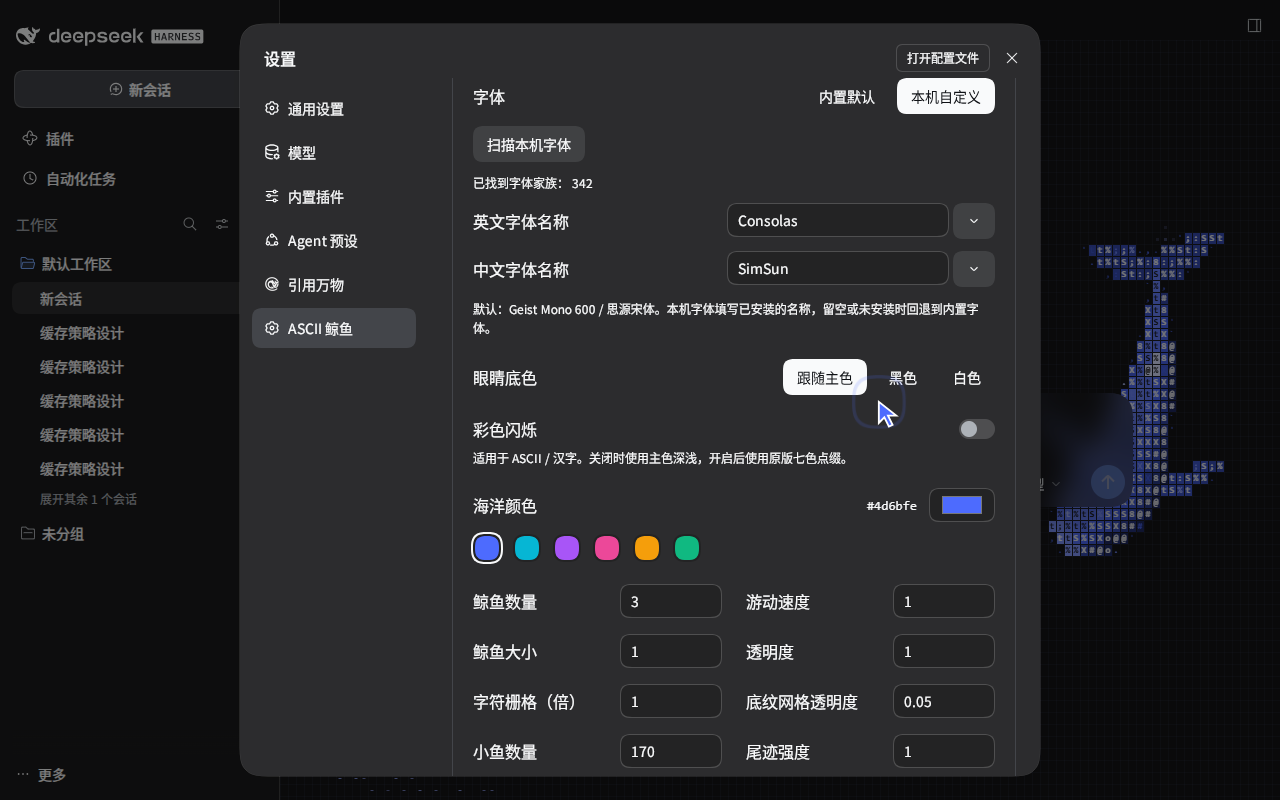
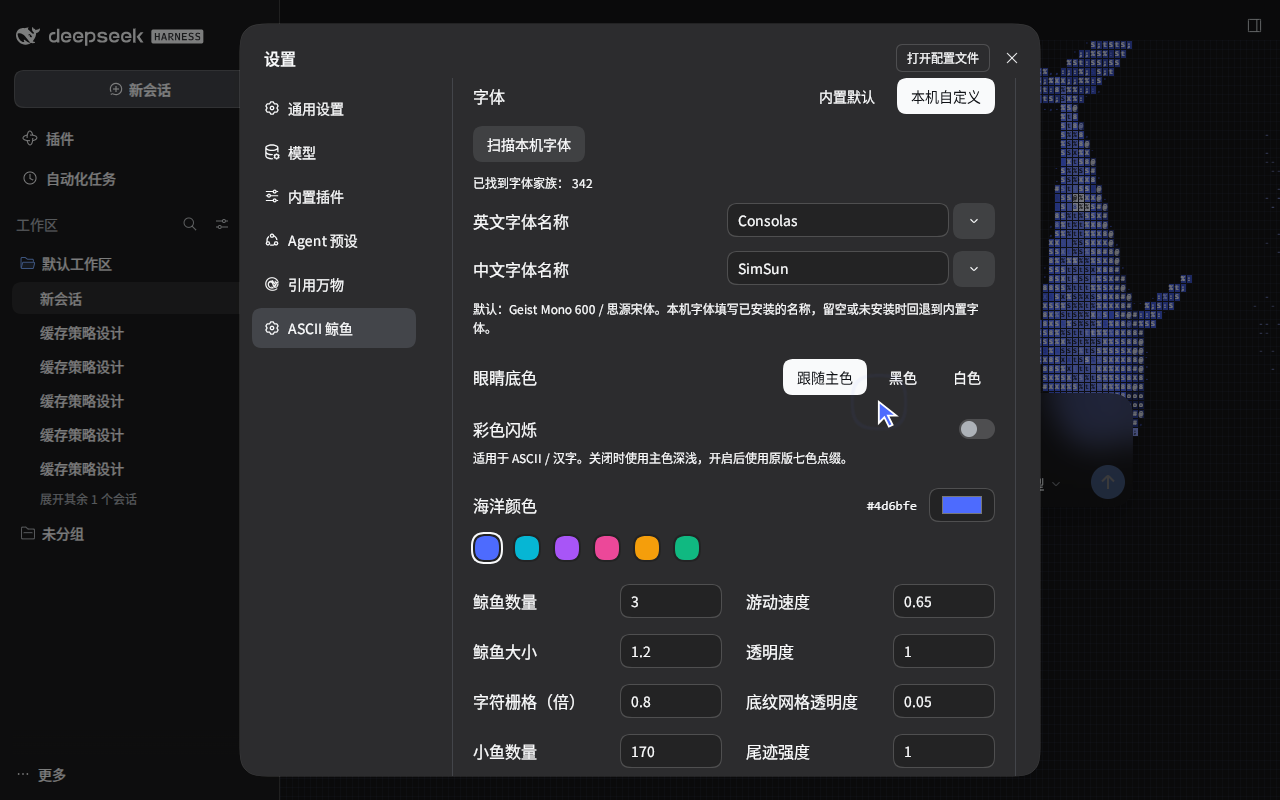
Calibrate character grain and refresh defaults and demos for 0.1.4

Changed region(s): [[0.8125, 0.0312, 0.9688, 0.7188]]

diff --git a/vendor/ascii-kanji-sharks/painter.js b/vendor/ascii-kanji-sharks/painter.js
@@ -7,6 +7,7 @@
  * the part they sit on (目 eye, 鰭 fins, 尾 tail). Partly covered
  * cells become a single brush stroke following the outline (一 丨 ノ 丶).
  */
+import { cellSize } from "../ascii-sharks/cells.ts";
 import { EAT, GlyphAtlas, InkRamp, PART, SFX, SPARK, STROKE, WAKE } from "./glyphs.js";
 import { SHARK_NODES as SPINE } from "../ascii-sharks/world.ts";
 import { humpback, orca, orcaPatch, orcaFlipper, humpbackFlipper, whaleFlukes } from "../ascii-sharks/whales.ts";
@@ -62,7 +63,7 @@ export class Painter {
     this.shape = humpback;
     this.gridScale = gridScale;
     // shortcut: keep cells at least 4 px for legibility and raster cost; revisit for finer grids.
-    this.cell = Math.max(4, 18 * gridScale);
+    this.cell = cellSize(0, gridScale, true)[0];
     this.wake = 1;
     this.canvas = canvas;
     this.ctx = canvas.getContext("2d", { alpha: true });
@@ -112,7 +113,7 @@ export class Painter {
   }
 
   resize(width, height, dpr) {
-    const cell = Math.max(4, 18 * this.gridScale);
+    const cell = cellSize(width, this.gridScale, true)[0];
     this.width = width;
     this.height = height;
     this.cell = cell;

diff --git a/vendor/ascii-sharks/renderer.ts b/vendor/ascii-sharks/renderer.ts
@@ -6,6 +6,7 @@
  *   4. sharks rasterised cell-by-cell with supersampled edges: grey blocks
  *      shaded by the light, dense glyphs, and shimmering accent colours
  */
+import { cellSize } from "./cells";
 import { clamp, hash3, smoothstep } from "./math";
 import { SHARK_NODES, type Shark, type SharkKind, type World } from "./world";
 
@@ -373,10 +374,7 @@ export class AsciiRenderer {
     this.width = width;
     this.height = height;
     this.dpr = dpr;
-    this.cw = Math.max(1, Math.round(clamp(Math.round(width / 124), 8, 13) * this.gridScale));
-    // Full-width Hanzi need room for their strokes rather than squeezed ASCII columns.
-    if (this.glyphMode === 'hanzi') this.cw = Math.round(this.cw * 1.75);
-    this.ch = Math.round(this.cw * (this.glyphMode === 'hanzi' ? 1.12 : 1.45));
+    [this.cw, this.ch] = cellSize(width, this.gridScale, this.glyphMode === 'hanzi');
     this.cols = Math.ceil(width / this.cw);
     this.rows = Math.ceil(height / this.ch);
 

diff --git a/vendor/ascii-sharks/cells.ts b/vendor/ascii-sharks/cells.ts
@@ -1,0 +1,7 @@
+/** Equal cell area keeps grain density similar while full-width glyphs stay square. */
+export function cellSize(width: number, scale: number, square: boolean) {
+  const cw = Math.max(1, Math.round(Math.min(13, Math.max(8, Math.round(width / 124))) * scale));
+  const ch = Math.round(cw * 1.45);
+  const side = Math.max(4, Math.round(Math.sqrt(cw * ch)));
+  return square ? [side, side] : [cw, ch];
+}

diff --git a/README.md b/README.md
@@ -34,11 +34,11 @@ dsh plugin --profile web add dsh-ascii-whales
 
 ## 调一调你的海
 
-新增 **字符风格 → Kanji**：改编自 MIT 许可的 [ascii-kanji-sharks](https://github.com/michikusa404/ascii-kanji-sharks)，使用鲸鱼形态，使用 stackedlol/ascii-sharks 的游动与鱼群模拟，保留 Kanji 上游按笔画密度生成的明暗与捕食文字效果。沿用数量、大小、速度、颜色、网格、尾迹和字体设置；字符栅格最低为 4 px（约 0.22 倍，低于此值不再缩小）。Kanji（日文汉字）使用“中文字体名称”；英文字体设置仅作用于 ASCII。字体离线内置，原有 ASCII／汉字鲸鱼仍可选。
+新增 **字符风格 → Kanji**：改编自 MIT 许可的 [ascii-kanji-sharks](https://github.com/michikusa404/ascii-kanji-sharks)，使用鲸鱼形态，使用 stackedlol/ascii-sharks 的游动与鱼群模拟，保留 Kanji 上游按笔画密度生成的明暗与捕食文字效果。沿用数量、大小、速度、颜色、网格、尾迹和字体设置；字符栅格最低为 4 px（达到下限后不再缩小）。Kanji（日文汉字）使用“中文字体名称”；英文字体设置仅作用于 ASCII。字体离线内置，原有 ASCII／汉字鲸鱼仍可选。
 
 使用 DSH 官方的设置页、按钮、输入框与开关。颜色区提供可视化色块及系统选色器，选色后即时生效。
 
-也可以让汉字入海：**设置 → ASCII 鲸鱼 → 字符风格 → 汉字**。吻部落“吻”，眼睛落“目”，背部落“背”，胸鳍与背鳍落“鳍”，尾鳍落“尾”；其余鲸身由水、海、潮、鲸等字铺开，小鱼化作鱼字旁的游字。字随身体弯曲转向，汉字栅格更宽，也能用“字符栅格”继续调节。
+也可以让汉字入海：**设置 → ASCII 鲸鱼 → 字符风格 → 汉字**。吻部落“吻”，眼睛落“目”，背部落“背”，胸鳍与背鳍落“鳍”，尾鳍落“尾”；其余鲸身由水、海、潮、鲸等字铺开，小鱼化作鱼字旁的游字。字随身体弯曲转向。三种样式按近似相同的字符格面积校准颗粒感：ASCII 保留窄格，汉字与 Kanji 使用方格，并随画布宽度一起调整；仍可用“字符栅格”调节。
 
 英文默认内置 **Geist Mono 600**，与原项目演示一致；汉字默认内置 **思源宋体**。两套字体用于动画，随插件离线加载。切换“字体 → 本机自定义”，可分别填写已安装的中英文字体名称，例如 `Consolas`、`方正屏显雅宋简体`。
 
@@ -62,10 +62,10 @@ dsh plugin --profile web add dsh-ascii-whales
 | 彩色闪烁 | 关 | ASCII / 汉字：关闭使用主色深浅，开启恢复原版七色字符点缀；不改变身体主色。Kanji 使用自身闪光效果，此开关不适用 |
 | 海洋颜色 | DeepSeek 蓝 | 可视化选色器；同步鱼群、尾迹配色 |
 | 鲸鱼数量 | 3 | 1–20 |
-| 鲸鱼大小 | 1 倍 | 0.1–10 倍，保留个体大小差异 |
-| 游动速度 | 1 倍 | 0.1–10 倍 |
+| 鲸鱼大小 | 1.2 倍 | 0.1–10 倍，保留个体大小差异 |
+| 游动速度 | 0.65 倍 | 0.1–10 倍 |
 | 动画透明度 | 1 | 0–1；1 为完全不透明 |
-| 字符栅格 | 1 倍 | 0.1–10 倍；越大越有颗粒感 |
+| 字符栅格 | 0.8 倍 | 0.1–10 倍；越大越有颗粒感 |
 | 底纹网格透明度 | 0.05 | 0–1；0 隐藏底纹 |
 | 小鱼数量 | 170 | 0–1000；0 隐藏小鱼 |
 | 尾迹强度 | 1 | 0–10；0 隐藏扩散尾迹 |

diff --git a/README.en.md b/README.en.md
@@ -52,10 +52,10 @@ Humpbacks retain long flippers and broad flukes. Orcas have a broader rounded he
 | Colorful shimmer | Off | ASCII / Hanzi: selected-color shades by default; enable the original seven-color glyph accents. Body color is unchanged. Not applicable to Kanji |
 | Whale color | `#4d6bfe` | Visual swatches and system color picker; fish and wakes follow |
 | Whales | 3 | 1–20 |
-| Size | 1× | 0.1–10× |
-| Speed | 1× | 0.1–10× |
+| Size | 1.2× | 0.1–10× |
+| Speed | 0.65× | 0.1–10× |
 | Scene opacity | 1 | 0–1; 1 is fully opaque |
-| Cell size | 1× | 0.1–10× |
+| Cell size | 0.8× | 0.1–10× |
 | Background grid opacity | 0.05 | 0–1 |
 | Small fish | 170 | 0–1000 |
 | Wake intensity | 1 | 0–10 |
@@ -91,8 +91,10 @@ Animation and fonts are bundled for offline loading. See [development and record
 
 ## Kanji
 
-Choose **Character style → Kanji** for the MIT-licensed [ascii-kanji-sharks](https://github.com/michikusa404/ascii-kanji-sharks) simulation, adapted to whales: schools, ink-measured shading and feeding text effects. Existing population, size, speed, color, grid, wake and font controls apply. Cells have a 4 px minimum (about 0.22×; lower settings use the same cell size). Kanji uses the Chinese font field; the English font field applies only to ASCII. Fonts are bundled for offline use; both whale styles remain available.
+Choose **Character style → Kanji** for the MIT-licensed [ascii-kanji-sharks](https://github.com/michikusa404/ascii-kanji-sharks) simulation, adapted to whales: schools, ink-measured shading and feeding text effects. Existing population, size, speed, color, grid, wake and font controls apply. Cells have a 4 px minimum (lower settings stop shrinking at this limit). Kanji uses the Chinese font field; the English font field applies only to ASCII. Fonts are bundled for offline use; both whale styles remain available.
 
 All three styles support visibility, count, size, speed, opacity, cell size, grid opacity, small fish count, wake intensity, color, fonts and the glass toggle/blur/opacity. Color affects bodies, fish and wakes; eye backgrounds follow body shading by default, with optional black or white. Kanji glints and sound effects retain theme accents. The first three whales use relative sizes of 100%, 70% and 84%.
 
 Kanji shares the stackedlol/ascii-sharks simulation, pursuit, turning and body wave with ASCII / Hanzi, retaining the whale silhouette with Kanji shading and text effects.
+
+Character cells use comparable areas across styles: ASCII retains narrow cells, while Hanzi and Kanji share square cells that respond to canvas width. The same multiplier gives similar grain density; full-width cells retain a 4 px minimum.

diff --git a/docs/development.md b/docs/development.md
@@ -28,7 +28,7 @@ node scripts/browser-check.mjs --record
 
 Requires Edge, Playwright, ffmpeg and ffprobe. The instance file contains `{ "url": "..." }`. Keep token-bearing instance files and logs local. Never use the everyday Desktop profile for recording or automated UI experiments.
 
-Recordings use a 1280×800 viewport and export 960×600, 15 fps looping GIFs with pointer/click cues. The nine scenes cover ASCII, Hanzi and Kanji in light/dark themes, settings, the local font picker and Humpback → Orca switching in ASCII / Kanji. Hanzi scenes use a 0.8× character grid; both settings and font-picker demos use ASCII mode. These are recording presets, not changes to plugin defaults. The recording context grants local-font access to its isolated browser context and selects installed Consolas/SimSun fonts. Inspect both themes and settings captures after every visual change. `docs/media/manifest.json` records segment timing and character modes. User and agent data are not suitable public fixtures.
+Recordings use a 1280×800 viewport and export 960×600, 15 fps looping GIFs with pointer/click cues. The nine scenes cover ASCII, Hanzi and Kanji in light/dark themes, settings, the local font picker and Humpback → Orca switching in ASCII / Kanji. All nine scenes use the current defaults: swim speed 0.65×, whale size 1.2× and character grid 0.8×. Settings and font-picker demos use ASCII mode; other controls change only to demonstrate their features. Recording assertions check the default speed and sizes and restore defaults at the end. The recording context grants local-font access to its isolated browser context and selects installed Consolas/SimSun fonts. Inspect both themes and settings captures after every visual change. `docs/media/manifest.json` records segment timing and character modes. User and agent data are not suitable public fixtures.
 
 ## Automated releases
 

diff --git a/docs/releases/0.1.4.md b/docs/releases/0.1.4.md
@@ -1,0 +1,25 @@
+三种字符样式的颗粒大小更接近，默认游动更舒缓。
+
+- 校准 ASCII、汉字和 Kanji 的基准栅格尺寸，减少切换样式时的视觉粗细变化。
+- 默认游动速度为 **0.65**、鲸鱼大小为 **1.2**、字符栅格为 **0.8**。
+- 重新录制全部 9 个 GIF，包括三种样式的浅／深色、设置、字体和座头鲸／虎鲸切换。
+- 保留已有偏好；点击“恢复默认”即可应用新参数。
+
+More consistent character grain across styles, with a calmer default swimming speed.
+
+- Calibrated baseline cell sizes across ASCII, Hanzi and Kanji to reduce abrupt changes in visual grain.
+- Default swimming speed is **0.65**, whale size **1.2**, and character grid scale **0.8**.
+- Re-recorded all nine GIFs, covering both themes, settings, fonts and Humpback / Orca switching.
+- Existing preferences are preserved; choose **Restore defaults** to apply the new values.
+
+验证 / Validation: typecheck, 9 automated tests and build pass. Isolated Edge / DSH Web recording assertions and default-reset checks pass with zero page errors. Desktop acceptance and other browsers were not run.
+
+安装 / Install:
+
+```sh
+dsh plugin --profile web add dsh-ascii-whales@0.1.4
+```
+
+Desktop 请通过客户端插件管理更新。For Desktop, update through the client plugin manager.
+
+感谢 / Thanks to [stackedlol](https://github.com/stackedlol/ascii-sharks) and [michikusa404](https://github.com/michikusa404/ascii-kanji-sharks) for the original animation and Kanji rendering.

diff --git a/docs/validation.md b/docs/validation.md
@@ -1,3 +1,10 @@
+# 0.1.4 validation · 2026-10-22
+
+- Calibrated ASCII/Hanzi/Kanji cell density and changed defaults to speed 0.65, size 1.2 and grid scale 0.8. Existing saved preferences are preserved.
+- `npm run check`: typecheck, 9 tests and build pass. The compiled runtime is synced to the isolated Web demo environment.
+- Re-recorded all nine GIFs at speed 0.65 / size 1.2 / grid scale 0.8, including both themes, settings, fonts and species switching. Recording assertions and reset verification pass; browser page errors: 0. Current recording details are in `media/manifest.json` and `media/checks.json`.
+- Desktop and other browsers: NOT_RUN. Publication is verified separately through the release workflow.
+
 # 0.1.3 validation · 2026-10-22
 
 - Typecheck, build and 9 automated tests pass. Species input validation, reload settings, eye/white-patch separation, shared body waves, curved tail notches and flipper-root continuity have automated coverage.
